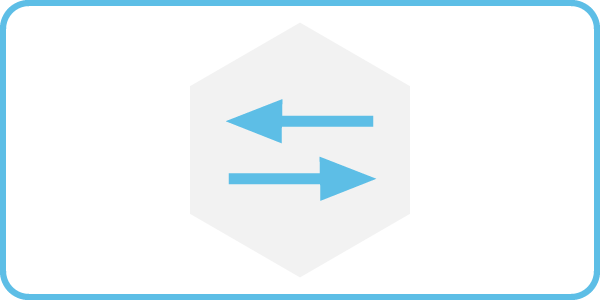
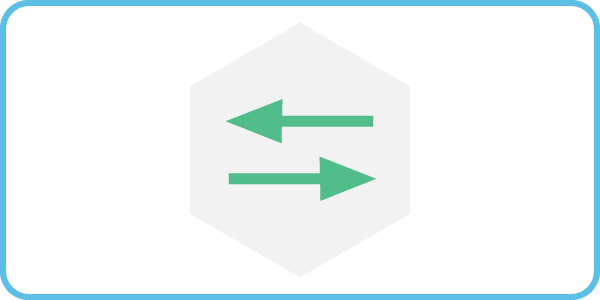
Added body styles, images and content

Changed region(s): [[0.36, 0.33, 0.63, 0.48], [0.36, 0.51, 0.63, 0.66]]

diff --git a/css/main.css b/css/main.css
@@ -20,9 +20,6 @@ img {
   max-width: 100%;
 }
 
-h3 {
-  margin: 0 0 1em 0;
-}
 
 
 
@@ -35,12 +32,16 @@ header {
   margin: 0 0 30px 0;
   padding: 5px 0 0 0;
   width: 100%;
-  height: 600px;
+  height: 550px;
 }
 
 #logo {
+  display: block;
   text-align: center;
-  margin: 0;
+  margin-left: auto;
+  margin-right: auto;
+  padding-top: 50px;
+  padding-bottom: 20px;
 }
 
 h1 {
@@ -50,37 +51,10 @@ h1 {
   line-height: 0.8em;
 }
 
-h2 {
-  font-size: 0.75em;
-  margin: -5px 0 0 ;
-  font-weight: normal;
-}
-
-
-/*********************************
-NAVIGATION
-**********************************/
-
-nav {
+.title {
   text-align: center;
-  padding: 10px 0;
-  margin: 20px 0 0;
 }
 
-nav ul {
-  list-style: none;
-  margin: 0 10px;
-  padding:0;
-}
-
-nav li {
-  display: inline-block;
-}
-
-nav a {
-  font-weight: 800;
-  padding: 15px 10px;
-}
 
 /*********************************
 FOOTER
@@ -90,8 +64,10 @@ footer {
   font-size: 0.75em;
   text-align: center;
   clear: both;
-  padding-top: 50px;
+  padding-top: 10px;
+  padding-bottom: 10px;
   color: #ccc;
+  background-color: #252525;
 }
 
 .social-icon {
@@ -103,8 +79,9 @@ footer {
 
 
 /*********************************
-PAGE: PORTFOLIO
+INDEX: BOXES and Buttons;
 **********************************/
+
 
 #gallery {
   margin: 0;
@@ -116,63 +93,76 @@ PAGE: PORTFOLIO
   float: left;
   width: 45%;
   margin: 2.5%;
-  background-color: #f5f5f5;
   color: #bdc3c7;
 }
 
-#gallery li a p {
+#gallery li p {
   margin: 0;
   padding: 5%;
-  font-size: 0.75em;
   color: #bdc3c7;
+  text-align: center;
 }
 
+#gallery li {
+  width: 28.3333%;
+}
 
+.btn-sign-up {
+  background-color:#51bd8b;
+  -moz-border-radius:7px;
+  -webkit-border-radius:7px;
+  border-radius:7px;
+  display:inline-block;
+  cursor:pointer;
+  color:#ffffff;
+  font-family:"Open Sans";
+  font-size:17px;
+  padding:16px 63px;
+  margin: 50px 100px 50px 200px;
+  text-decoration:none;
+  border: none;
+}
+.btn-sign-up:hover {
+  background-color:#3A8B65;
+}
+.btn-sign-up:active {
+  position:relative;
+  top:1px;
+}
 
+.btn-log-in {
+  background-color:#5DBEE6;
+  -moz-border-radius:7px;
+  -webkit-border-radius:7px;
+  border-radius:7px;
+  display:inline-block;
+  cursor:pointer;
+  color:#ffffff;
+  font-family:"Open Sans";
+  font-size:17px;
+  padding:16px 70px;
+  margin-left: 60px;
+  text-decoration:none;
+  border: none;
+}
+.btn-log-in:hover {
+  background-color:#4894B3;
+}
 
-/*********************************
-PAGE: ABOUT
-**********************************/
+.btn-log-in:active {
+  position:relative;
+  top:1px;
+}
 
-.profile-photo {
+section p {
+  text-align: center;
+}
+
+section img {
   display: block;
-  max-width: 150px;
-  margin: 0 auto 30px;
-  border-radius: 100%;
-}
-
-
-
-/*********************************
-PAGE: CONTACT
-**********************************/
-
-.contact-info {
-  list-style: none;
-  padding: 0;
-  margin: 0;
-  font-size: 0.9em;
-}
-
-.contact-info a{
-  display: block;
-  min-height: 20px;
-  background-repeat: no-repeat;
-  background-size: 20px 20px;
-  padding: 0 0 0 30px;
-  margin: 0 0 10px;
-}
-
-.contact-info li.phone a {
-  background-image: url('../img/phone.png')
-}
-
-.contact-info li.mail a {
-  background-image: url('../img/mail.png')
-}
-
-.contact-info li.twitter a {
-  background-image: url('../img/twitter.png')
+  margin-right: auto;
+  margin-left: auto;
+  padding-bottom: 20px;
 }
 
 
@@ -188,7 +178,7 @@ body {
   color: #999;
 }
 
-/* green header */
+/* blue header */
 header {
   background: #5DBEE6;
 }
@@ -199,21 +189,21 @@ nav {
 }
 
 /* logo text */
-h1, h2 {
+h1 {
   color: #fff;
 }
 
 /* links */
 a {
-  color: #6ab47b;
+  color: #5DBEE6;
 }
 
 /* nav link */
 nav a, nav a:visited {
-  color: #fff;
+  color: #3A8B65;
 }
 
 /* selected nav link */
 nav a.selected, nav a:hover {
-  color: #32673f;
+  color: #4894B3;
 }

diff --git a/index.html b/index.html
@@ -9,8 +9,38 @@
 </head>
 <body>
 <header>
-	
+<img id="logo" src="img/element-loader-logo.png" alt="Element Loader Logo" width="300px">
+<h1 class="title">A Data Migration Tool To Import, Export</h1>
+<h1 class="title">And Synchronize your Data On An Ongoing Basis.</h1>
 </header>
-	
+<div id="wrapper">
+	<section>
+        <ul id="gallery">
+          <li>
+              <img src="img/mapping.png" alt="Mapping">
+              <p>Map and move data from application sources to application targets</p>
+          </li>
+          <li>
+              <img src="img/upload.png" alt="Upload">
+              <p>Sync Accounts, Campaigns, Contacts and Leads across cloud services.</p>
+          </li>
+          <li>
+              <img src="img/security.png" alt="Security">
+              <p>Data is secured using a complete 256 bit AES encryption scheme.</p>
+          </li>
+        </ul>
+        <button class="btn-sign-up">Sign Up</button><button class="btn-log-in">Login</button>
+      </section>
+      <section>
+      	<p>Powered by</p>
+      	<img src="img/ce-logo.jpg" alt="Cloud Elements Logo" width="150px">
+      	<p>Questions?</p>
+		<p>Email us at info@cloud-elements.com</p>
+		<p>or call +1.866.830.3456.</p>
+      </section>
+</div>
+	<footer>
+	<p>&copy; Copyright 2015 Cloud Elements LLC. All rights reserved. 3001 Brighton Blvd. Suite #653, Denver, CO 80216 United States Privacy Policy</p>
+</footer>
 </body>
 </html>
